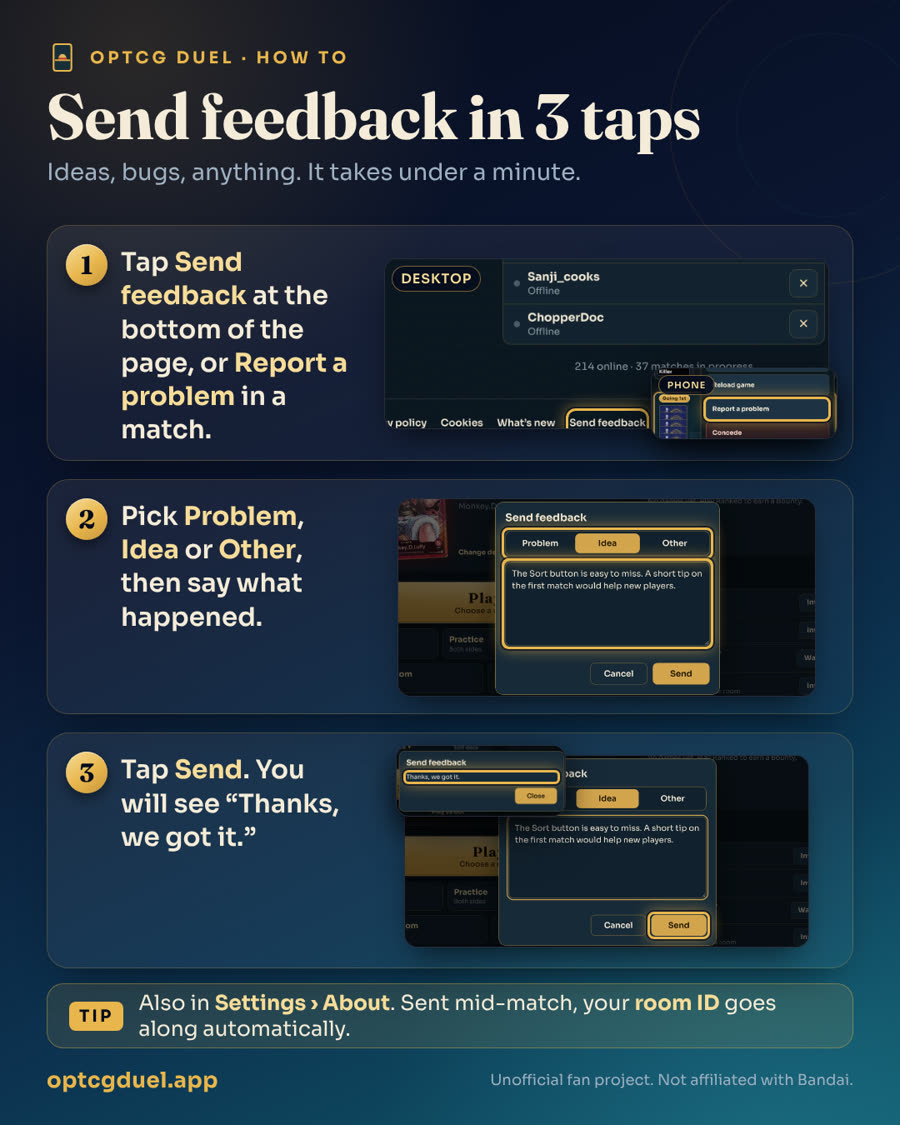
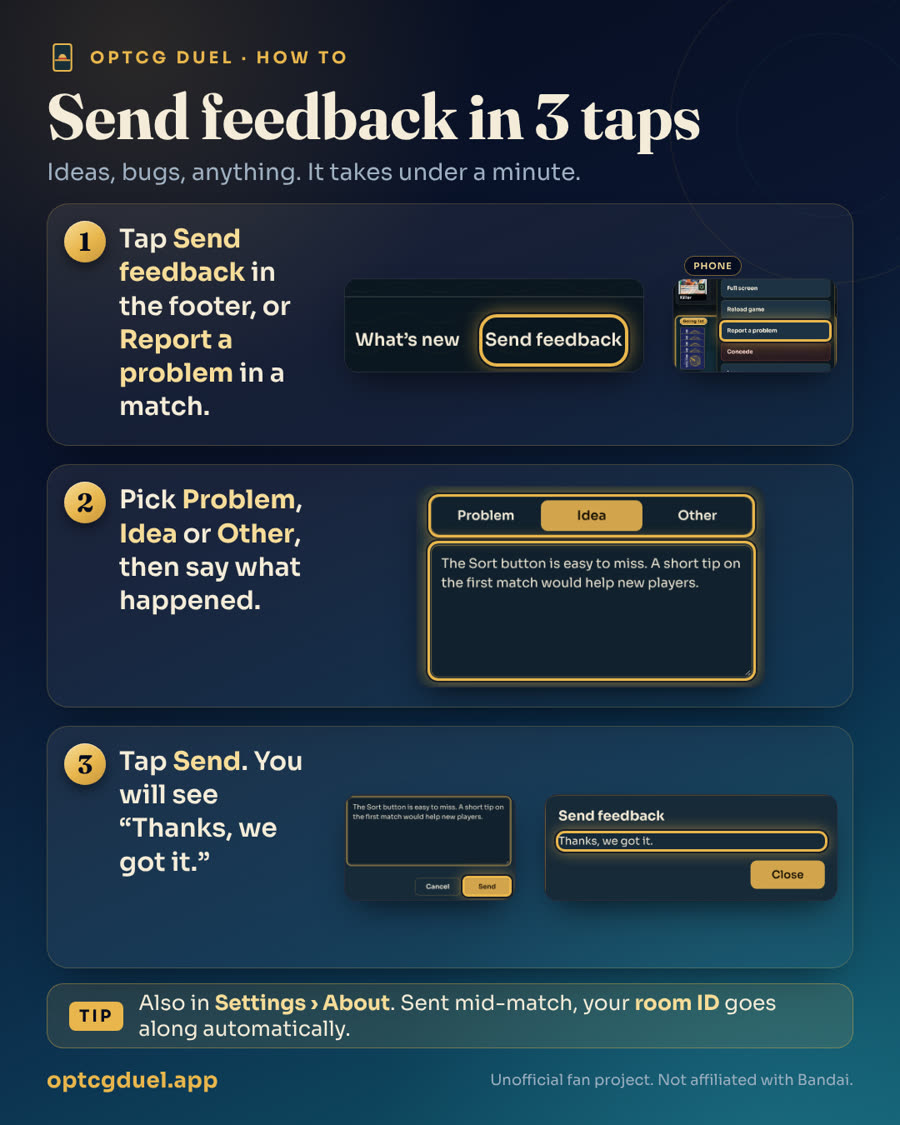
Polish help infographics: crops, side-by-side phone shots, Yes/No prompt
Claude-Session: https://claude.ai/code/session_01CqQEHypStxLbu1M3fozxfT

Changed region(s): [[0.0622, 0.1867, 0.9333, 0.8711]]

diff --git a/trailer/video/src/infographics/data.ts b/trailer/video/src/infographics/data.ts
@@ -16,21 +16,21 @@ export const INFOGRAPHICS: InfographicSpec[] = [
     subtitle: 'Ideas, bugs, anything. It takes under a minute.',
     steps: [
       {
-        text: 'Tap **Send feedback** at the bottom of the page, or **Report a problem** in a match.',
+        text: 'Tap **Send feedback** in the footer, or **Report a problem** in a match.',
         shots: [
-          desk('fb-lobby', {focus: ['send'], pad: [260, 40, 260, 0], ar: 3.4, rings: [{k: 'send', pad: 5}], tag: 'Desktop'}),
+          desk('fb-lobby-bottom', {focus: ['whatsnew', 'send'], pad: [8, 22, 8, 0], rings: [{k: 'send', pad: 5}]}),
           ph('p-menu', {focus: ['report'], pad: [24, 90, 24, 70], ar: 1.9, rings: [{k: 'report', pad: 4}]}),
         ],
       },
       {
         text: 'Pick **Problem**, **Idea** or **Other**, then say what happened.',
-        shots: [desk('fb-dialog-filled', {focus: ['card'], pad: 6, ar: 1.5, rings: [{k: 'kinds'}, {k: 'text'}]})],
+        shots: [desk('fb-dialog-filled', {focus: ['kinds', 'text'], inside: 'card', pad: [8, 4, 8, 4], rings: [{k: 'kinds', pad: 3}, {k: 'text', pad: 5}]})],
       },
       {
         text: 'Tap **Send**. You will see “Thanks, we got it.”',
         shots: [
-          desk('fb-dialog-filled', {focus: ['card'], pad: 6, ar: 1.5, rings: [{k: 'send'}]}),
-          desk('fb-dialog-sent', {focus: ['card'], pad: 6, ar: 1.7, inset: true, at: 'tl', rings: [{k: 'thanks'}]}),
+          desk('fb-dialog-filled', {focus: ['text', 'send'], inside: 'card', pad: [8, 6, 8, 8], rings: [{k: 'send', pad: 5}]}),
+          desk('fb-dialog-sent', {focus: ['card'], inside: 'card', pad: 0, rings: [{k: 'thanks', pad: 4}]}),
         ],
       },
     ],
@@ -45,21 +45,21 @@ export const INFOGRAPHICS: InfographicSpec[] = [
         text: '**Right-click** a card, or **press and hold** it on a phone.',
         shots: [
           desk('m-board', {focus: ['killer'], pad: [60, 50, 250, 50], ar: 1.5, rings: [{k: 'killer', pad: 5, arrow: 'right', label: 'Right-click'}], tag: 'Desktop'}),
-          ph('p-board', {focus: ['killer'], pad: [30, 30, 210, 40], ar: 1.5, at: 'br', rings: [{k: 'killer', pad: 4, arrow: 'right', label: 'Hold'}]}),
+          ph('p-board', {focus: ['killer'], pad: [30, 30, 210, 40], ar: 1.5, rings: [{k: 'killer', pad: 4, arrow: 'right', label: 'Hold'}]}),
         ],
       },
       {
         text: 'In the card pop-up, tap **Report a problem with this card**.',
         shots: [
-          desk('r-inspect', {focus: ['ability', 'report'], inside: 'dialog', pad: 14, ar: 1.5, rings: [{k: 'report', pad: 6}], tag: 'Desktop'}),
-          ph('p-inspect-scrolled', {focus: ['ability', 'report'], inside: 'dialog', pad: 10, ar: 1.5, at: 'tr', rings: [{k: 'report', pad: 5}]}),
+          desk('r-inspect', {focus: ['ability', 'report'], inside: 'dialog', pad: [10, 6, 10, 10], rings: [{k: 'report', pad: 6}]}),
+          ph('p-inspect-scrolled', {focus: ['ability', 'report'], inside: 'dialog', pad: [6, 6, 6, 10], rings: [{k: 'report', pad: 5}]}),
         ],
       },
       {
         text: 'Say what happened, then tap **Send report**.',
         shots: [
-          desk('r-form-filled', {focus: ['label', 'text', 'send'], inside: 'dialog', pad: 12, ar: 1.4, rings: [{k: 'text', pad: 5}, {k: 'send', pad: 5}], tag: 'Desktop'}),
-          ph('p-form', {focus: ['label', 'text', 'send'], inside: 'dialog', pad: 10, ar: 1.4, at: 'tr', rings: [{k: 'text', pad: 5}]}),
+          desk('r-form-filled', {focus: ['label', 'text', 'send'], inside: 'dialog', pad: [8, 2, 8, 8], rings: [{k: 'text', pad: 5}, {k: 'send', pad: 5}]}),
+          ph('p-form', {focus: ['label', 'text', 'send'], inside: 'dialog', pad: [8, 2, 8, 8], rings: [{k: 'text', pad: 5}, {k: 'send', pad: 5}]}),
         ],
       },
     ],
@@ -73,8 +73,8 @@ export const INFOGRAPHICS: InfographicSpec[] = [
       {
         text: '**Hover** the tucked hand to raise it.',
         shots: [
-          cmp('h-tucked', {...handCrop, tag: 'Tucked', rings: [{k: 'fan', pad: 6}]}),
-          cmp('h-hover', {...handCrop, tag: 'Raised', inset: true, at: 'tr'}),
+          cmp('h-tucked', {...handCrop, tag: 'Tucked', rings: [{rect: {x: 232, y: 668, w: 420, h: 30}, pad: 3, radius: 10}]}),
+          cmp('h-hover', {...handCrop, tag: 'Raised'}),
         ],
       },
       {
@@ -87,14 +87,14 @@ export const INFOGRAPHICS: InfographicSpec[] = [
         keys: ['H'],
         shots: [
           cmp('h-keep', {focus: ['hide'], pad: [14, 110, 330, 10], ar: 2.0, rings: [{k: 'hide', pad: 5}]}),
-          cmp('h-hidden', {focus: ['hide'], pad: [14, 110, 330, 10], ar: 2.0, inset: true, at: 'br', rings: [{k: 'hide', pad: 5}]}),
+          cmp('h-hidden', {focus: ['hide'], pad: [14, 110, 330, 10], ar: 2.0, rings: [{k: 'hide', pad: 5}]}),
         ],
       },
       {
         text: 'On a phone, tap **Hide** on the hand bar. **Show** brings it back.',
         shots: [
           ph('p-sorted', {focus: ['hide'], pad: [250, 110, 14, 12], ar: 2.2, rings: [{k: 'hide', pad: 5}]}),
-          ph('p-hand-folded', {focus: ['show'], pad: [250, 110, 14, 12], ar: 2.2, inset: true, at: 'tl', rings: [{k: 'show', pad: 5}]}),
+          ph('p-hand-folded', {focus: ['show'], pad: [250, 110, 14, 12], ar: 2.2, rings: [{k: 'show', pad: 5}]}),
         ],
       },
     ],
@@ -143,7 +143,7 @@ export const INFOGRAPHICS: InfographicSpec[] = [
         text: 'Choose **Last action** or **Whole turn**.',
         shots: [
           desk('u-menu', {focus: ['undo', 'list'], pad: [30, 20, 30, 20], ar: 1.7, rings: [{k: 'last', pad: 4}, {k: 'turn', pad: 4}]}),
-          ph('p-undo', {focus: ['undo', 'list'], pad: [30, 20, 30, 20], ar: 1.7, at: 'tl', rings: [{k: 'last', pad: 4}, {k: 'turn', pad: 4}]}),
+          ph('p-undo', {focus: ['undo', 'list'], pad: [30, 20, 30, 20], ar: 1.7, rings: [{k: 'last', pad: 4}, {k: 'turn', pad: 4}]}),
         ],
       },
       {
@@ -168,7 +168,8 @@ export const INFOGRAPHICS: InfographicSpec[] = [
       },
       {
         text: '**Y** answers Yes and **N** answers No on a prompt.',
-        bigKeys: ['Y', 'N'],
+        keys: ['Y', 'N'],
+        shots: [desk('y-confirm', {focus: ['prompt'], pad: 6, ar: 1.7, rings: [{k: 'yes', pad: 5}, {k: 'no', pad: 5}]})],
       },
       {
         text: 'Select a card, then **P** play, **A** attack, **E** ability, **D** DON!!.',

diff --git a/trailer/video/src/infographics/kit.tsx b/trailer/video/src/infographics/kit.tsx
@@ -26,7 +26,9 @@ export const union = (rs: Rect[]): Rect => {
 
 export type RingSpec = {
   /** Recorded control(s) to circle. */
-  k: string | string[];
+  k?: string | string[];
+  /** Or an explicit box in CSS px of the shot (a strip no single control covers). */
+  rect?: Rect;
   pad?: number;
   radius?: number;
   /** Dim everything outside this ring. */
@@ -50,10 +52,6 @@ export type ShotSpec = {
   /** Crop aspect (w / h); the crop grows to it. */
   ar?: number;
   rings?: RingSpec[];
-  /** Portrait: ride on the first picture as an inset (phone pictures after a desktop one always do). */
-  inset?: boolean;
-  /** Portrait: which corner of the picture a phone inset sits in (default bottom right). */
-  at?: 'tl' | 'tr' | 'bl' | 'br';
   /** Small pill on the crop, e.g. "Phone". */
   tag?: string;
 };
@@ -75,14 +73,38 @@ export type InfographicSpec = {
   tip?: string;
 };
 
+/** Box of a ring's target in the shot's CSS px. */
+export const ringBox = (src: string, r: RingSpec): Rect => {
+  if (r.rect) return r.rect;
+  const keys = Array.isArray(r.k) ? r.k : [r.k ?? ''];
+  return union(keys.map((key) => boxOf(src, key)));
+};
+
 export function resolveCrop(s: ShotSpec): Rect {
   const src = SRC[s.kind];
   const bounds: Rect = s.inside ? boxOf(s.src, s.inside) : {x: 0, y: 0, w: src.w, h: src.h};
   let c: Rect;
   if (s.rect) c = {...s.rect};
   else {
-    const focus = s.focus ?? s.rings?.flatMap((r) => (Array.isArray(r.k) ? r.k : [r.k])) ?? [];
-    const u = union(focus.map((k) => boxOf(s.src, k)));
+    const focus = s.focus ?? [];
+    const rects = focus.map((key) => boxOf(s.src, key));
+    // The crop always holds every ring completely (its pad plus the stroke).
+    for (const r of s.rings ?? []) {
+      const b = ringBox(s.src, r);
+      const e = (r.pad ?? 7) + 5;
+      rects.push({x: b.x - e, y: b.y - e, w: b.w + e * 2, h: b.h + e * 2});
+      if (r.arrow) {
+        // The arrow and its label sit outside the ring, on `arrow`'s side: keep room for them (about 1.1 px per CSS px).
+        const reach = (72 + (r.label ? 24 + r.label.length * 11 : 0)) / 1.1;
+        const horizontal = r.arrow === 'left' || r.arrow === 'right';
+        const x0 = r.arrow === 'left' ? b.x - e - reach : b.x - e;
+        const y0 = r.arrow === 'up' ? b.y - e - reach : b.y - e;
+        rects.push({x: x0, y: y0, w: b.w + e * 2 + (horizontal ? reach : 0), h: b.h + e * 2 + (horizontal ? 0 : reach)});
+        if (r.arrow === 'right') rects.push({x: b.x, y: b.y - e, w: b.w + e + reach, h: b.h + e * 2});
+        if (r.arrow === 'down') rects.push({x: b.x - e, y: b.y, w: b.w + e * 2, h: b.h + e + reach});
+      }
+    }
+    const u = union(rects);
     const [l, t, r, b] = Array.isArray(s.pad) ? s.pad : [s.pad ?? 36, s.pad ?? 36, s.pad ?? 36, s.pad ?? 36];
     c = {x: u.x - l, y: u.y - t, w: u.w + l + r, h: u.h + t + b};
   }
@@ -95,16 +117,9 @@ export function resolveCrop(s: ShotSpec): Rect {
     c.x = cx - c.w / 2;
     c.y = cy - c.h / 2;
   }
-  // Keep inside the bounds: shrink (same aspect) to fit, then shift.
-  const k = Math.min(1, bounds.w / c.w, bounds.h / c.h);
-  if (k < 1) {
-    const cx = c.x + c.w / 2;
-    const cy = c.y + c.h / 2;
-    c.w *= k;
-    c.h *= k;
-    c.x = cx - c.w / 2;
-    c.y = cy - c.h / 2;
-  }
+  // Keep inside the bounds: clamp each side on its own (the aspect gives way, the content never does), then shift.
+  c.w = Math.min(c.w, bounds.w);
+  c.h = Math.min(c.h, bounds.h);
   c.x = Math.max(bounds.x, Math.min(bounds.x + bounds.w - c.w, c.x));
   c.y = Math.max(bounds.y, Math.min(bounds.y + bounds.h - c.h, c.y));
   return c;
@@ -190,15 +205,15 @@ export const Shot: React.FC<{spec: ShotSpec; w: number; h: number}> = ({spec, w,
   // Rings keep a steady weight whatever the zoom.
   const unit = Math.max(0.8, Math.min(1.5, k / 1.6));
   const rings = (spec.rings ?? []).map((r) => {
-    const keys = Array.isArray(r.k) ? r.k : [r.k];
-    const u = union(keys.map((key) => boxOf(spec.src, key)));
+    const u = ringBox(spec.src, r);
     const pad = r.pad ?? 7;
     return {r, rect: {x: (u.x - pad - crop.x) * k, y: (u.y - pad - crop.y) * k, w: (u.w + pad * 2) * k, h: (u.h + pad * 2) * k}};
   });
   return (
+    <div style={{position: 'relative', width: w, height: h, flex: 'none'}}>
     <div
       style={{
-        position: 'relative', width: w, height: h, borderRadius: 16, overflow: 'hidden', background: COLORS.navy0, flex: 'none',
+        position: 'absolute', inset: 0, borderRadius: 16, overflow: 'hidden', background: COLORS.navy0,
         border: '1.5px solid rgba(255,255,255,0.14)', boxShadow: '0 18px 40px -14px rgba(0,0,0,0.7)',
       }}
     >
@@ -215,10 +230,11 @@ export const Shot: React.FC<{spec: ShotSpec; w: number; h: number}> = ({spec, w,
           {r.arrow ? <Arrow ring={rect} side={r.arrow} label={r.label} unit={unit} /> : null}
         </React.Fragment>
       ))}
+    </div>
       {spec.tag ? (
         <div
           style={{
-            position: 'absolute', left: 8, top: 8, background: 'rgba(5,11,29,0.82)', color: COLORS.goldBright, fontFamily: FONT_SANS, fontWeight: 600,
+            position: 'absolute', left: 14, top: -27, background: 'rgba(5,11,29,0.82)', color: COLORS.goldBright, fontFamily: FONT_SANS, fontWeight: 600,
             fontSize: Math.max(11, Math.min(16, w / 24)), letterSpacing: 1, textTransform: 'uppercase', padding: '4px 10px', borderRadius: 999, border: '1px solid rgba(232,182,76,0.5)',
           }}
         >

diff --git a/trailer/video/src/infographics/Infographic.tsx b/trailer/video/src/infographics/Infographic.tsx
@@ -2,7 +2,7 @@ import React from 'react';
 import {AbsoluteFill} from 'remotion';
 import {Logo} from '../Logo';
 import {COLORS, FONT_DISPLAY, FONT_SANS} from '../theme';
-import {aspectOf, fitBest, fitRow, Key, NumberBadge, Rich, Shot, type InfographicSpec, type Step} from './kit';
+import {aspectOf, fitBest, fitCol, Key, NumberBadge, Rich, Shot, type InfographicSpec, type Step} from './kit';
 
 type Orientation = 'portrait' | 'landscape';
 
@@ -17,39 +17,20 @@ const textHeight = (t: string, w: number, fs: number, keys: boolean) => {
   return lines * fs * 1.3 + (keys ? fs * 1.75 : 0);
 };
 
-const corner = (at: 'tl' | 'tr' | 'bl' | 'br' = 'br'): React.CSSProperties => ({
-  [at[0] === 't' ? 'top' : 'bottom']: -12,
-  [at[1] === 'l' ? 'left' : 'right']: -10,
-});
-
 const Picture: React.FC<{step: Step; w: number; h: number; portrait: boolean; wide?: boolean}> = ({step, w, h, portrait, wide}) => {
   // Wide, short picture areas (portrait cards with the text on the left) get wider crops.
-  const shots = (step.shots ?? []).map((s) => (wide && s.ar ? {...s, ar: Math.min(2.6, s.ar * 1.4)} : !portrait && s.ar ? {...s, ar: Math.min(s.ar, 1.55)} : s));
-  // Portrait cards are small: a phone variant rides as an inset on the desktop picture instead of splitting it.
-  if (portrait && shots.length === 2 && ((shots[0].kind !== 'phone' && shots[1].kind === 'phone') || shots[1].inset)) {
-    const [a, b] = shots;
-    const bw0 = 0.42;
-    const main = fitRow([aspectOf(a)], w * 0.97, h * 0.97, 0)[0];
-    let iw = main.w * bw0;
-    let ih = iw / aspectOf(b);
-    if (ih > main.h * 0.55) {
-      ih = main.h * 0.55;
-      iw = ih * aspectOf(b);
-    }
-    return (
-      <div style={{width: w, height: h, display: 'flex', alignItems: 'center', justifyContent: 'center'}}>
-        <div style={{position: 'relative', width: main.w, height: main.h}}>
-          <Shot spec={a} w={main.w} h={main.h} />
-          <div style={{position: 'absolute', ...corner(b.at), filter: 'drop-shadow(0 10px 18px rgba(0,0,0,0.6))'}}>
-            <Shot spec={b} w={iw} h={ih} />
-          </div>
-        </div>
-      </div>
-    );
-  }
+  const single = (step.shots?.length ?? 0) === 1;
+  const shots = (step.shots ?? []).map((s) => {
+    if (wide && single && s.ar) return {...s, ar: Math.min(2.6, s.ar * 1.4)};
+    // Landscape columns are tall: board crops grow taller (more board around the control) instead of floating in space.
+    if (!portrait && s.ar && !s.inside) return {...s, ar: Math.min(s.ar, 1.2)};
+    return s;
+  });
   if (shots.length) {
-    const gap = 16;
-    const {dir, sizes} = fitBest(shots.map(aspectOf), w, h, gap);
+    const gap = 34;
+    const aspects = shots.map(aspectOf);
+    // Landscape columns are tall and narrow: stack. Portrait picks whichever layout gives the pictures more room.
+    const {dir, sizes} = !portrait && shots.length > 1 ? {dir: 'col' as const, sizes: fitCol(aspects, w, h - 10, gap)} : fitBest(aspects, w, h - 10, gap);
     return (
       <div style={{width: w, height: h, display: 'flex', flexDirection: dir === 'row' ? 'row' : 'column', alignItems: 'center', justifyContent: 'center', gap}}>
         {shots.map((s, i) => (
@@ -82,9 +63,9 @@ const Picture: React.FC<{step: Step; w: number; h: number; portrait: boolean; wi
 
 /** Portrait, up to three steps: the sentence on the left, the pictures on the right. */
 const RowCard: React.FC<{step: Step; n: number; w: number; h: number; fs: number}> = ({step, n, w, h, fs}) => {
-  const pad = 22;
+  const pad = 20;
   const badge = Math.round(fs * 1.6);
-  const textW = Math.round(Math.min(360, w * 0.36));
+  const textW = Math.round(Math.min(310, w * 0.32));
   return (
     <div
       style={{
@@ -152,7 +133,7 @@ export const Infographic: React.FC<{spec: InfographicSpec; orientation: Orientat
   const portrait = orientation === 'portrait';
   const pad = portrait ? 56 : 64;
   const titleFs = Math.min(portrait ? 78 : 88, ((W - pad * 2) / (spec.title.length * 0.54)) | 0);
-  const bodyTop = portrait ? 270 : 236;
+  const bodyTop = portrait ? 244 : 236;
   const footH = 40;
   const tipH = spec.tip ? (portrait ? 78 : 64) : 0;
   const bodyBottom = H - 34 - footH - 18 - (tipH ? tipH + 18 : 0);

diff --git a/trailer/capture/infographics.ts b/trailer/capture/infographics.ts
@@ -42,6 +42,10 @@ async function lobby(): Promise<void> {
     await p.goto(`${WEB_ORIGIN}/`);
     await sleep(2500);
     await s.shot("fb-lobby", { friendWatch: p.getByRole("button", { name: "Watch", exact: true }).first(), spectate: p.getByRole("button", { name: /^Spectate/ }), send: p.getByRole("button", { name: "Send feedback" }) });
+    // Scrolled to the very bottom the footer has room under it, so a ring around its link is not cut by the screen edge.
+    await p.evaluate(() => window.scrollTo(0, document.documentElement.scrollHeight));
+    await sleep(400);
+    await s.shot("fb-lobby-bottom", { whatsnew: p.locator(".site-footer").getByText(/What.s new/), send: p.getByRole("button", { name: "Send feedback" }) });
     await p.getByRole("button", { name: "Send feedback" }).click();
     await sleep(700);
     await s.shot("fb-dialog-empty", { card: p.locator(".feedback-card"), kinds: p.locator(".feedback-kinds"), text: p.locator(".feedback-text"), send: p.locator(".feedback-btn-primary") });
@@ -293,7 +297,23 @@ async function phone(): Promise<void> {
   }
 }
 
-const groups: Record<string, () => Promise<void>> = { lobby, match, hand, phone };
+/** The real Yes/No prompt, on the app's own demo board (/demo?prompt=confirm, no match needed). */
+async function demo(): Promise<void> {
+  const s = await openStill({ kind: "desktop", extra });
+  const p = s.page;
+  try {
+    await p.goto(`${WEB_ORIGIN}/demo?prompt=confirm`);
+    await p.locator(".choice-confirm").waitFor();
+    await sleep(1500);
+    const box = p.locator(".choice-confirm");
+    await s.shot("y-confirm", { prompt: box, yes: box.getByRole("button", { name: "Yes", exact: true }), no: box.getByRole("button", { name: "No", exact: true }) });
+  } finally {
+    if (s.errors.length) console.log(s.errors);
+    await s.close();
+  }
+}
+
+const groups: Record<string, () => Promise<void>> = { lobby, match, hand, phone, demo };
 const want = process.argv.slice(2).filter((a) => !a.startsWith("-"));
 for (const g of want.length ? want : Object.keys(groups)) {
   if (!groups[g]) throw new Error(`unknown group ${g}`);
